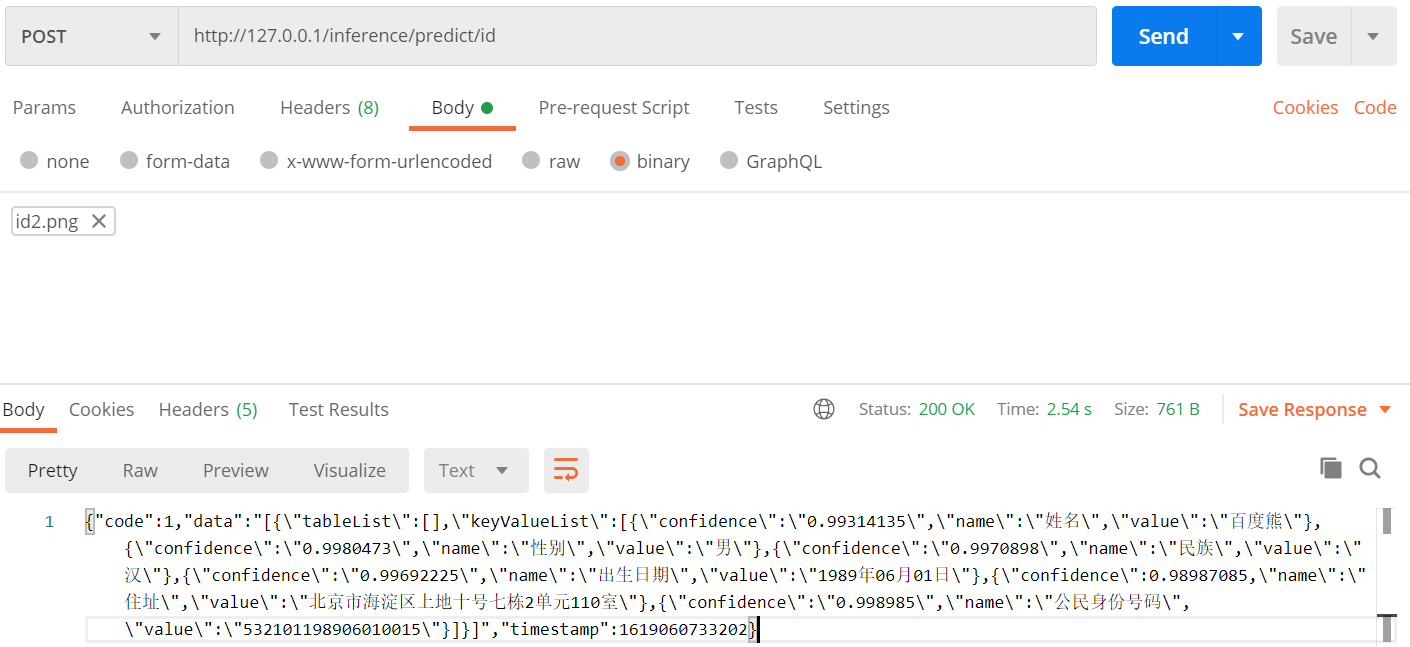
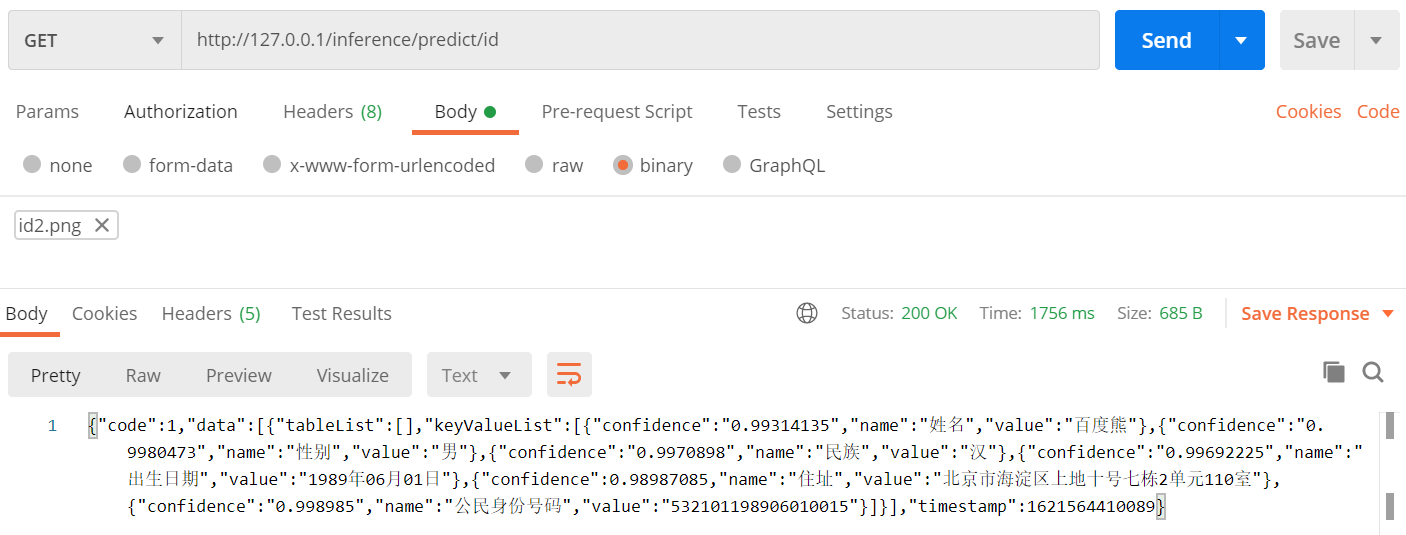
* 返回结果的Data部分，由String格式改为JSON格式。 * 调用predict方法时，支持get方式 * 调用predict方式时，采用获取S3上图片时，支持指定桶名

diff --git a/3-application/src/main/resources/static/upload_s3.js b/3-application/src/main/resources/static/upload_s3.js
@@ -49,16 +49,16 @@ function predict(type,keyName,showJson){
 	if(showJson){
 		url += "/"+type;
 	}
-	$.post(url,
+	$.get(url,
 		  {"keyName":keyName},
 		  function(result) {
 			  console.log(result);
 		      if (result.code == 1) {
 			      if(showJson){
 					  $("#loading-icon").hide();
-			    	  alert(result.data);
+			    	  alert(JSON.stringify(result.data));
 			      }else{
-			    	  globalData = JSON.parse(result.data);
+			    	  globalData = result.data;
 			    	  analysis(type,globalData);
 			      }
 		      }else{
@@ -71,11 +71,11 @@ function predict(type,keyName,showJson){
 
 function analysis(type,fullData){
 	console.log(fullData);
-	$.post("/inference/analysis/"+type,
+	$.get("/inference/analysis/"+type,
 			{"fullData":JSON.stringify(fullData)},
 			function(result) {
 			    if (result.code == 1) {
-			    	displayResult(fullData,JSON.parse(result.data));
+			    	displayResult(fullData,result.data);
 				}else{
 					alert(result.msg);
 				}

diff --git a/3-application/src/main/resources/static/upload_endpoint.js b/3-application/src/main/resources/static/upload_endpoint.js
@@ -31,9 +31,9 @@ function predict(type,showJson,file){
 		    if (result.code == 1) {
 		    	if(showJson){
 				    $("#loading-icon").hide();
-		    		alert(result.data);
+		    		alert(JSON.stringify(result.data));
 		    	}else{
-		    		globalData = JSON.parse(result.data);
+		    		globalData = result.data;
 			    	analysis(type,globalData);
 		    	}
 		    }else{
@@ -50,11 +50,11 @@ function predict(type,showJson,file){
 
 function analysis(type,fullData){
 	//console.log(fullData);
-	$.post("/inference/analysis/"+type,
+	$.get("/inference/analysis/"+type,
 			{"fullData":JSON.stringify(fullData)},
 			function(result) {
 			    if (result.code == 1) {
-			    	displayResult(fullData,JSON.parse(result.data));
+			    	displayResult(fullData,result.data);
 				}else{
 					alert(result.msg);
 				}

diff --git a/3-application/src/main/java/cn/nwcdcloud/samples/ocr/controller/InferenceController.java b/3-application/src/main/java/cn/nwcdcloud/samples/ocr/controller/InferenceController.java
@@ -17,8 +17,11 @@ import org.springframework.web.bind.annotation.PostMapping;
 import org.springframework.web.bind.annotation.RequestMapping;
 import org.springframework.web.bind.annotation.ResponseBody;
 
+import com.alibaba.fastjson.JSON;
+import com.alibaba.fastjson.JSONArray;
 import com.alibaba.fastjson.JSONObject;
 
+import cn.nwcdcloud.commons.constant.CommonConstants;
 import cn.nwcdcloud.commons.lang.Result;
 import cn.nwcdcloud.samples.ocr.service.InferenceService;
 import cn.nwcdcloud.samples.ocr.service.SageMakerService;
@@ -59,69 +62,62 @@ public class InferenceController {
 		return result;
 	}
 
-	@PostMapping("/predict")
-	@ResponseBody
-	public String predict(HttpServletRequest request) {
+	private Result doPredict(HttpServletRequest request) {
 		String contentType = request.getContentType();
 		try {
 			if ("application/json".equalsIgnoreCase(contentType)) {
 				String body = getRequestContent(request);
-				return sageMakerService.invokeEndpoint(endpointName, body).toString();
+				return sageMakerService.invokeEndpoint(endpointName, body);
 			} else if (StringUtils.hasLength(contentType) && contentType.startsWith("image")) {
-				return sageMakerService.invokeEndpoint(endpointName, contentType, request.getInputStream()).toString();
+				return sageMakerService.invokeEndpoint(endpointName, contentType, request.getInputStream());
 			} else {
-				String keyName = request.getParameter("keyName");
 				JSONObject jsonRequest = new JSONObject();
-				jsonRequest.put("bucket", bucketName);
+				String tempBucketName = request.getParameter("bucketName");
+				if (StringUtils.hasLength(tempBucketName)) {
+					jsonRequest.put("bucket", tempBucketName);
+				} else {
+					jsonRequest.put("bucket", bucketName);
+				}
+				String keyName = request.getParameter("keyName");
 				jsonRequest.put("image_uri", new String[] { keyName });
 				Result result = sageMakerService.invokeEndpoint(endpointName, jsonRequest.toJSONString());
-				return result.toString();
+				return result;
 			}
 		} catch (Exception e) {
 			logger.warn("图片推理报错", e);
 			Result result = new Result();
 			result.setCode(10);
 			result.setMsg("推理报错");
-			return result.toString();
+			return result;
 		}
 	}
 
-	@PostMapping("/predict/{type}")
+	@RequestMapping("/predict")
+	@ResponseBody
+	public String predict(HttpServletRequest request) {
+		return doPredict(request).toString();
+	}
+
+	@RequestMapping("/predict/{type}")
 	@ResponseBody
 	public String predict(@PathVariable("type") String type, HttpServletRequest request) {
-		String contentType = request.getContentType();
-		try {
-			if ("application/json".equalsIgnoreCase(contentType)) {
-				String body = getRequestContent(request);
-				return inferenceService.predict(type, endpointName, body).toString();
-			} else if (StringUtils.hasLength(contentType) && contentType.startsWith("image")) {
-				return inferenceService.predict(type, endpointName, contentType, request.getInputStream()).toString();
-			} else {
-				String keyName = request.getParameter("keyName");
-				JSONObject jsonRequest = new JSONObject();
-				jsonRequest.put("bucket", bucketName);
-				jsonRequest.put("image_uri", new String[] { keyName });
-				Result result = inferenceService.predict(type, endpointName, jsonRequest.toJSONString());
-				return result.toString();
-			}
-		} catch (Exception e) {
-			logger.warn("图片推理报错", e);
-			Result result = new Result();
-			result.setCode(10);
-			result.setMsg("推理报错");
+		Result result = doPredict(request);
+		if (result.getCode() != CommonConstants.NORMAL) {
 			return result.toString();
 		}
+		return inferenceService.analyse(type, (JSONArray) result.getData()).toString();
 	}
 
-	@PostMapping("/analysis/{type}")
+	@RequestMapping("/analysis/{type}")
 	@ResponseBody
 	public String analyse(@PathVariable("type") String type, String fullData) {
-		Result result = inferenceService.analyse(type, fullData);
+		JSONArray data = JSON.parseArray(fullData);
+		Result result = inferenceService.analyse(type, data);
 		return result.toString();
 	}
 
 	private String getRequestContent(HttpServletRequest request) {
-		// 获取POST数据
+		// 获取Body数据
 		BufferedReader bufReader = null;
 		try {
 			bufReader = request.getReader();

diff --git a/3-application/src/main/java/cn/nwcdcloud/samples/ocr/service/impl/InferenceServiceImpl.java b/3-application/src/main/java/cn/nwcdcloud/samples/ocr/service/impl/InferenceServiceImpl.java
@@ -1,12 +1,9 @@
 package cn.nwcdcloud.samples.ocr.service.impl;
 
-import java.io.InputStream;
 import java.util.List;
 
-import cn.nwcdcloud.samples.ocr.parse.ConfigConstants;
 import org.slf4j.Logger;
 import org.slf4j.LoggerFactory;
-import org.springframework.beans.factory.annotation.Autowired;
 import org.springframework.beans.factory.annotation.Value;
 import org.springframework.stereotype.Service;
 
@@ -14,31 +11,28 @@ import com.alibaba.fastjson.JSON;
 import com.alibaba.fastjson.JSONArray;
 import com.alibaba.fastjson.JSONObject;
 
-import cn.nwcdcloud.commons.constant.CommonConstants;
 import cn.nwcdcloud.commons.lang.Result;
 import cn.nwcdcloud.samples.ocr.constant.OcrConstants;
 import cn.nwcdcloud.samples.ocr.parse.BlockItemUtils;
+import cn.nwcdcloud.samples.ocr.parse.ConfigConstants;
 import cn.nwcdcloud.samples.ocr.parse.ParseFactory;
 import cn.nwcdcloud.samples.ocr.service.InferenceService;
-import cn.nwcdcloud.samples.ocr.service.SageMakerService;
 
 @Service
 public class InferenceServiceImpl implements InferenceService {
 	private final Logger logger = LoggerFactory.getLogger(getClass());
 
-	@Autowired
-	private SageMakerService sageMakerService;
 	@Value("${templateDir}")
 	private String templateDir;
 
 	@Override
-	public Result analyse(String type, String data) {
-		JSONArray json = JSON.parseArray(data);
+	public Result analyse(String type, JSONArray data) {
 		if (logger.isDebugEnabled()) {
-			logger.debug(JSON.toJSONString(json.getJSONObject(0)));
+			logger.debug(JSON.toJSONString(data.getJSONObject(0)));
 		}
+		//TODO 目前只处理第1个
 		Result result = new Result();
-		JSONObject jsonObject = json.getJSONObject(0);
+		JSONObject jsonObject = data.getJSONObject(0);
 		List<JSONObject> blockItemList = BlockItemUtils.getBlockItemList(jsonObject, ConfigConstants.PAGE_WIDTH,
 				ConfigConstants.PAGE_HEIGHT);
 		ParseFactory parseJsonUtil = new ParseFactory(ConfigConstants.PAGE_WIDTH, ConfigConstants.PAGE_HEIGHT, type,
@@ -49,25 +43,7 @@ public class InferenceServiceImpl implements InferenceService {
 		if (logger.isDebugEnabled()) {
 			logger.debug(resultArray.toJSONString());
 		}
-		result.setData(resultArray.toJSONString());
+		result.setData(resultArray);
 		return result;
-	}
-
-	@Override
-	public Result predict(String type, String endpointName, String body) {
-		Result result = sageMakerService.invokeEndpoint(endpointName, body);
-		if (result.getCode() != CommonConstants.NORMAL) {
-			return result;
-		}
-		return analyse(type, (String) result.getData());
-	}
-
-	@Override
-	public Result predict(String type, String endpointName, String contentType, InputStream inputStream) {
-		Result result = sageMakerService.invokeEndpoint(endpointName, contentType, inputStream);
-		if (result.getCode() != CommonConstants.NORMAL) {
-			return result;
-		}
-		return analyse(type, (String) result.getData());
 	}
 }

diff --git a/3-application/src/main/java/cn/nwcdcloud/samples/ocr/service/impl/SageMakerServiceImpl.java b/3-application/src/main/java/cn/nwcdcloud/samples/ocr/service/impl/SageMakerServiceImpl.java
@@ -61,7 +61,7 @@ public class SageMakerServiceImpl implements SageMakerService {
 				.contentType("application/json").body(requestBody).build();
 		SageMakerRuntimeClient client = SageMakerRuntimeClient.create();
 		InvokeEndpointResponse response = client.invokeEndpoint(request);
-		String data = addImageInfoJson(response.body().asUtf8String(), body);
+		JSONArray data = addImageInfoJson(response.body().asUtf8String(), body);
 		result.setData(data);
 		return result;
 	}
@@ -75,7 +75,7 @@ public class SageMakerServiceImpl implements SageMakerService {
 		SageMakerRuntimeClient client = SageMakerRuntimeClient.create();
 		try {
 			InvokeEndpointResponse response = client.invokeEndpoint(request);
-			String data = addImageInfoByte(response.body().asUtf8String(), requestBody.asByteArray());
+			JSONArray data = addImageInfoByte(response.body().asUtf8String(), requestBody.asByteArray());
 			result.setData(data);
 		} catch (ModelErrorException e) {
 			if (e.getMessage().indexOf("413 Request Entity Too Large") != -1) {
@@ -96,14 +96,14 @@ public class SageMakerServiceImpl implements SageMakerService {
 	 * @param imageId
 	 * @return
 	 */
-	private String addImageInfoByte(final String original, byte[] content) {
+	private JSONArray addImageInfoByte(final String original, byte[] content) {
 		JSONArray jsonArray = JSON.parseArray(original);
 		JSONObject jsonObject = jsonArray.getJSONObject(0);
 		String imageId = getUUID();
 		cacheImageByte.put(imageId, content);
 		jsonObject.put(OcrConstants.IMAGE_TYPE, ImageType.Byte.getId());
 		jsonObject.put(OcrConstants.IMAGE_ID, imageId);
-		return jsonArray.toJSONString();
+		return jsonArray;
 	}
 
 	/**
@@ -113,7 +113,7 @@ public class SageMakerServiceImpl implements SageMakerService {
 	 * @param imageId
 	 * @return
 	 */
-	private String addImageInfoJson(final String original, String content) {
+	private JSONArray addImageInfoJson(final String original, String content) {
 		JSONObject jsonContent = JSON.parseObject(content);
 		JSONArray jsonArray = JSON.parseArray(original);
 		for (int i = 0; i < jsonArray.size(); i++) {
@@ -126,7 +126,7 @@ public class SageMakerServiceImpl implements SageMakerService {
 			jsonObject.put(OcrConstants.IMAGE_TYPE, ImageType.JSON.getId());
 			jsonObject.put(OcrConstants.IMAGE_ID, imageId);
 		}
-		return jsonArray.toJSONString();
+		return jsonArray;
 	}
 
 	@Override

diff --git a/3-application/src/main/java/cn/nwcdcloud/samples/ocr/controller/IndexController.java b/3-application/src/main/java/cn/nwcdcloud/samples/ocr/controller/IndexController.java
@@ -14,8 +14,6 @@ import org.springframework.web.bind.annotation.PostMapping;
 import org.springframework.web.bind.annotation.ResponseBody;
 import org.springframework.web.servlet.ModelAndView;
 
-import cn.nwcdcloud.commons.lang.Result;
-import cn.nwcdcloud.samples.ocr.service.IamService;
 import cn.nwcdcloud.samples.ocr.service.S3Service;
 import software.amazon.awssdk.utils.StringUtils;
 
@@ -23,8 +21,6 @@ import software.amazon.awssdk.utils.StringUtils;
 public class IndexController {
 	@Autowired
 	private S3Service s3Service;
-	@Autowired
-	private IamService iamService;
 	@Value("${bucketName}")
 	private String bucketName;
 	@Value("${prefix}")
@@ -65,12 +61,5 @@ public class IndexController {
 		DateFormat df = new SimpleDateFormat("yyyy-MM-dd/HH-mm-ss-SSS");
 		String keyName = prefix + df.format(new Date()) + ".jpg";
 		return s3Service.generatePresignedUrl(null, bucketName, keyName, 10).toString();
-	}
-
-	@PostMapping("/createRole")
-	@ResponseBody
-	public String createRole() {
-		Result result = iamService.createRole();
-		return result.toString();
 	}
 }

diff --git a/3-application/src/main/java/cn/nwcdcloud/samples/ocr/service/InferenceService.java b/3-application/src/main/java/cn/nwcdcloud/samples/ocr/service/InferenceService.java
@@ -1,13 +1,9 @@
 package cn.nwcdcloud.samples.ocr.service;
 
-import java.io.InputStream;
+import com.alibaba.fastjson.JSONArray;
 
 import cn.nwcdcloud.commons.lang.Result;
 
 public interface InferenceService {
-	Result analyse(String type, String data);
-
-	Result predict(String type, String endpointName, String body);
-
-	Result predict(String type, String endpointName, String contentType, InputStream inputStream);
+	Result analyse(String type, JSONArray data);
 }
